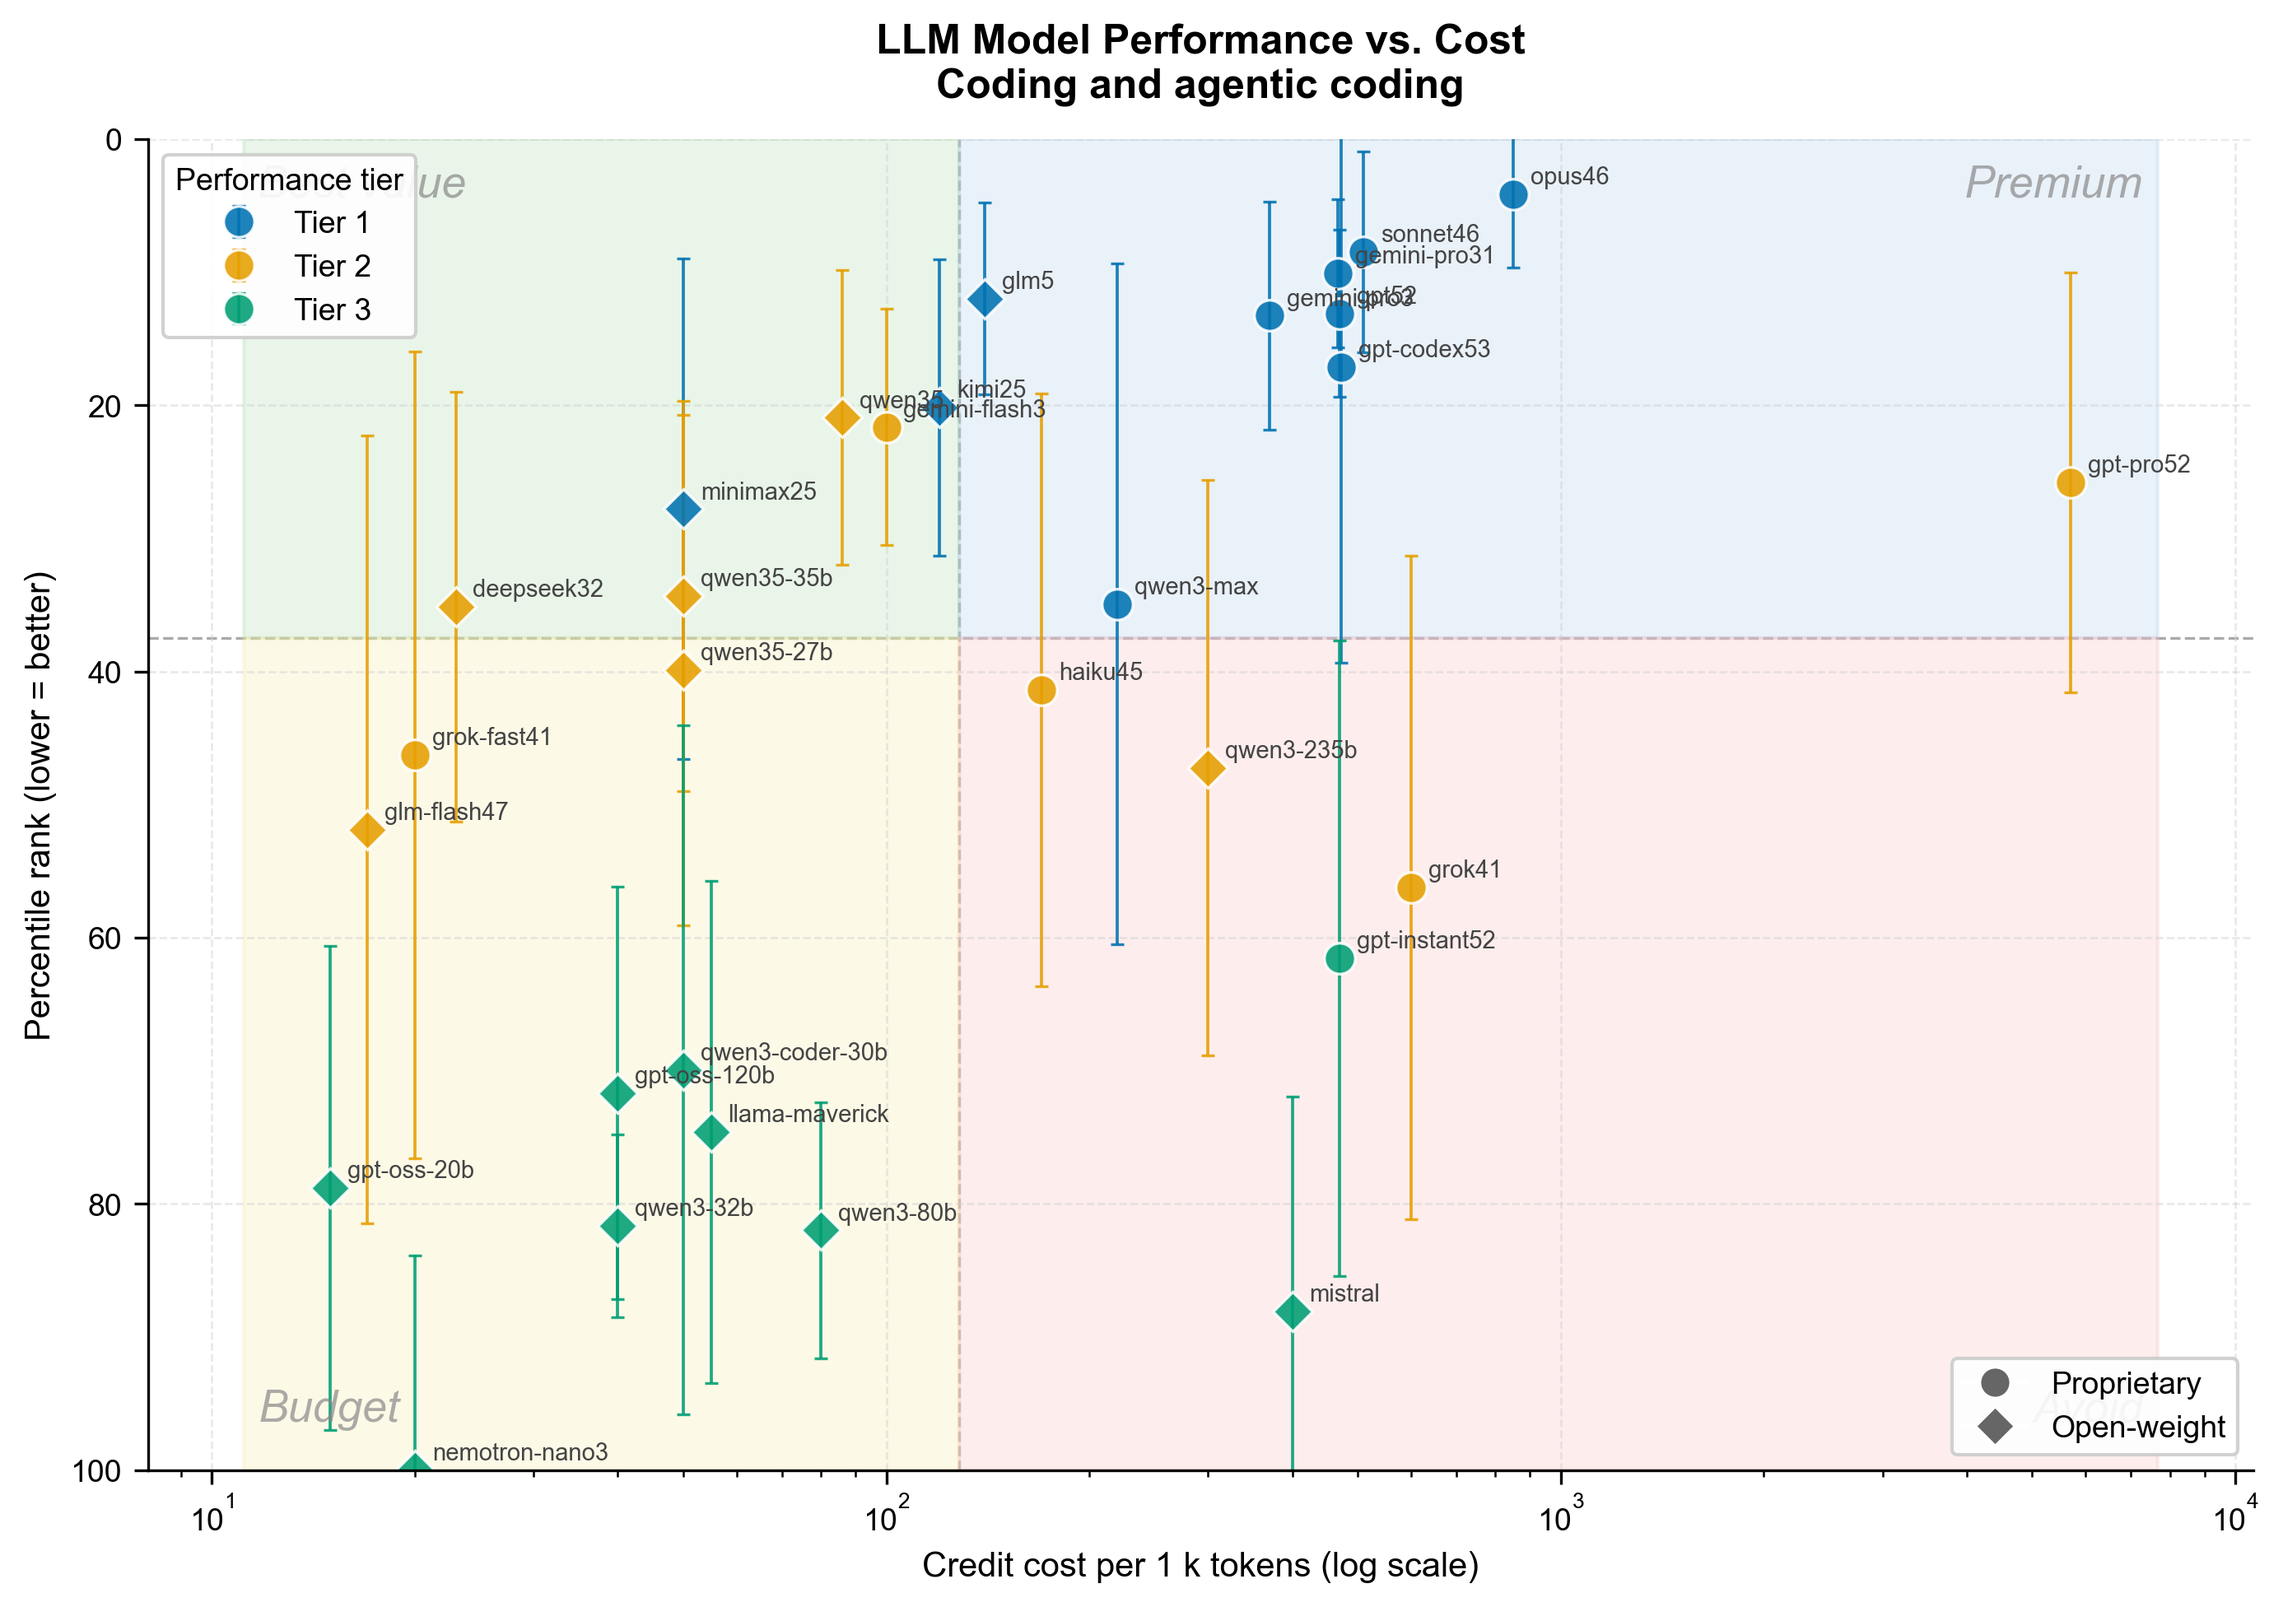
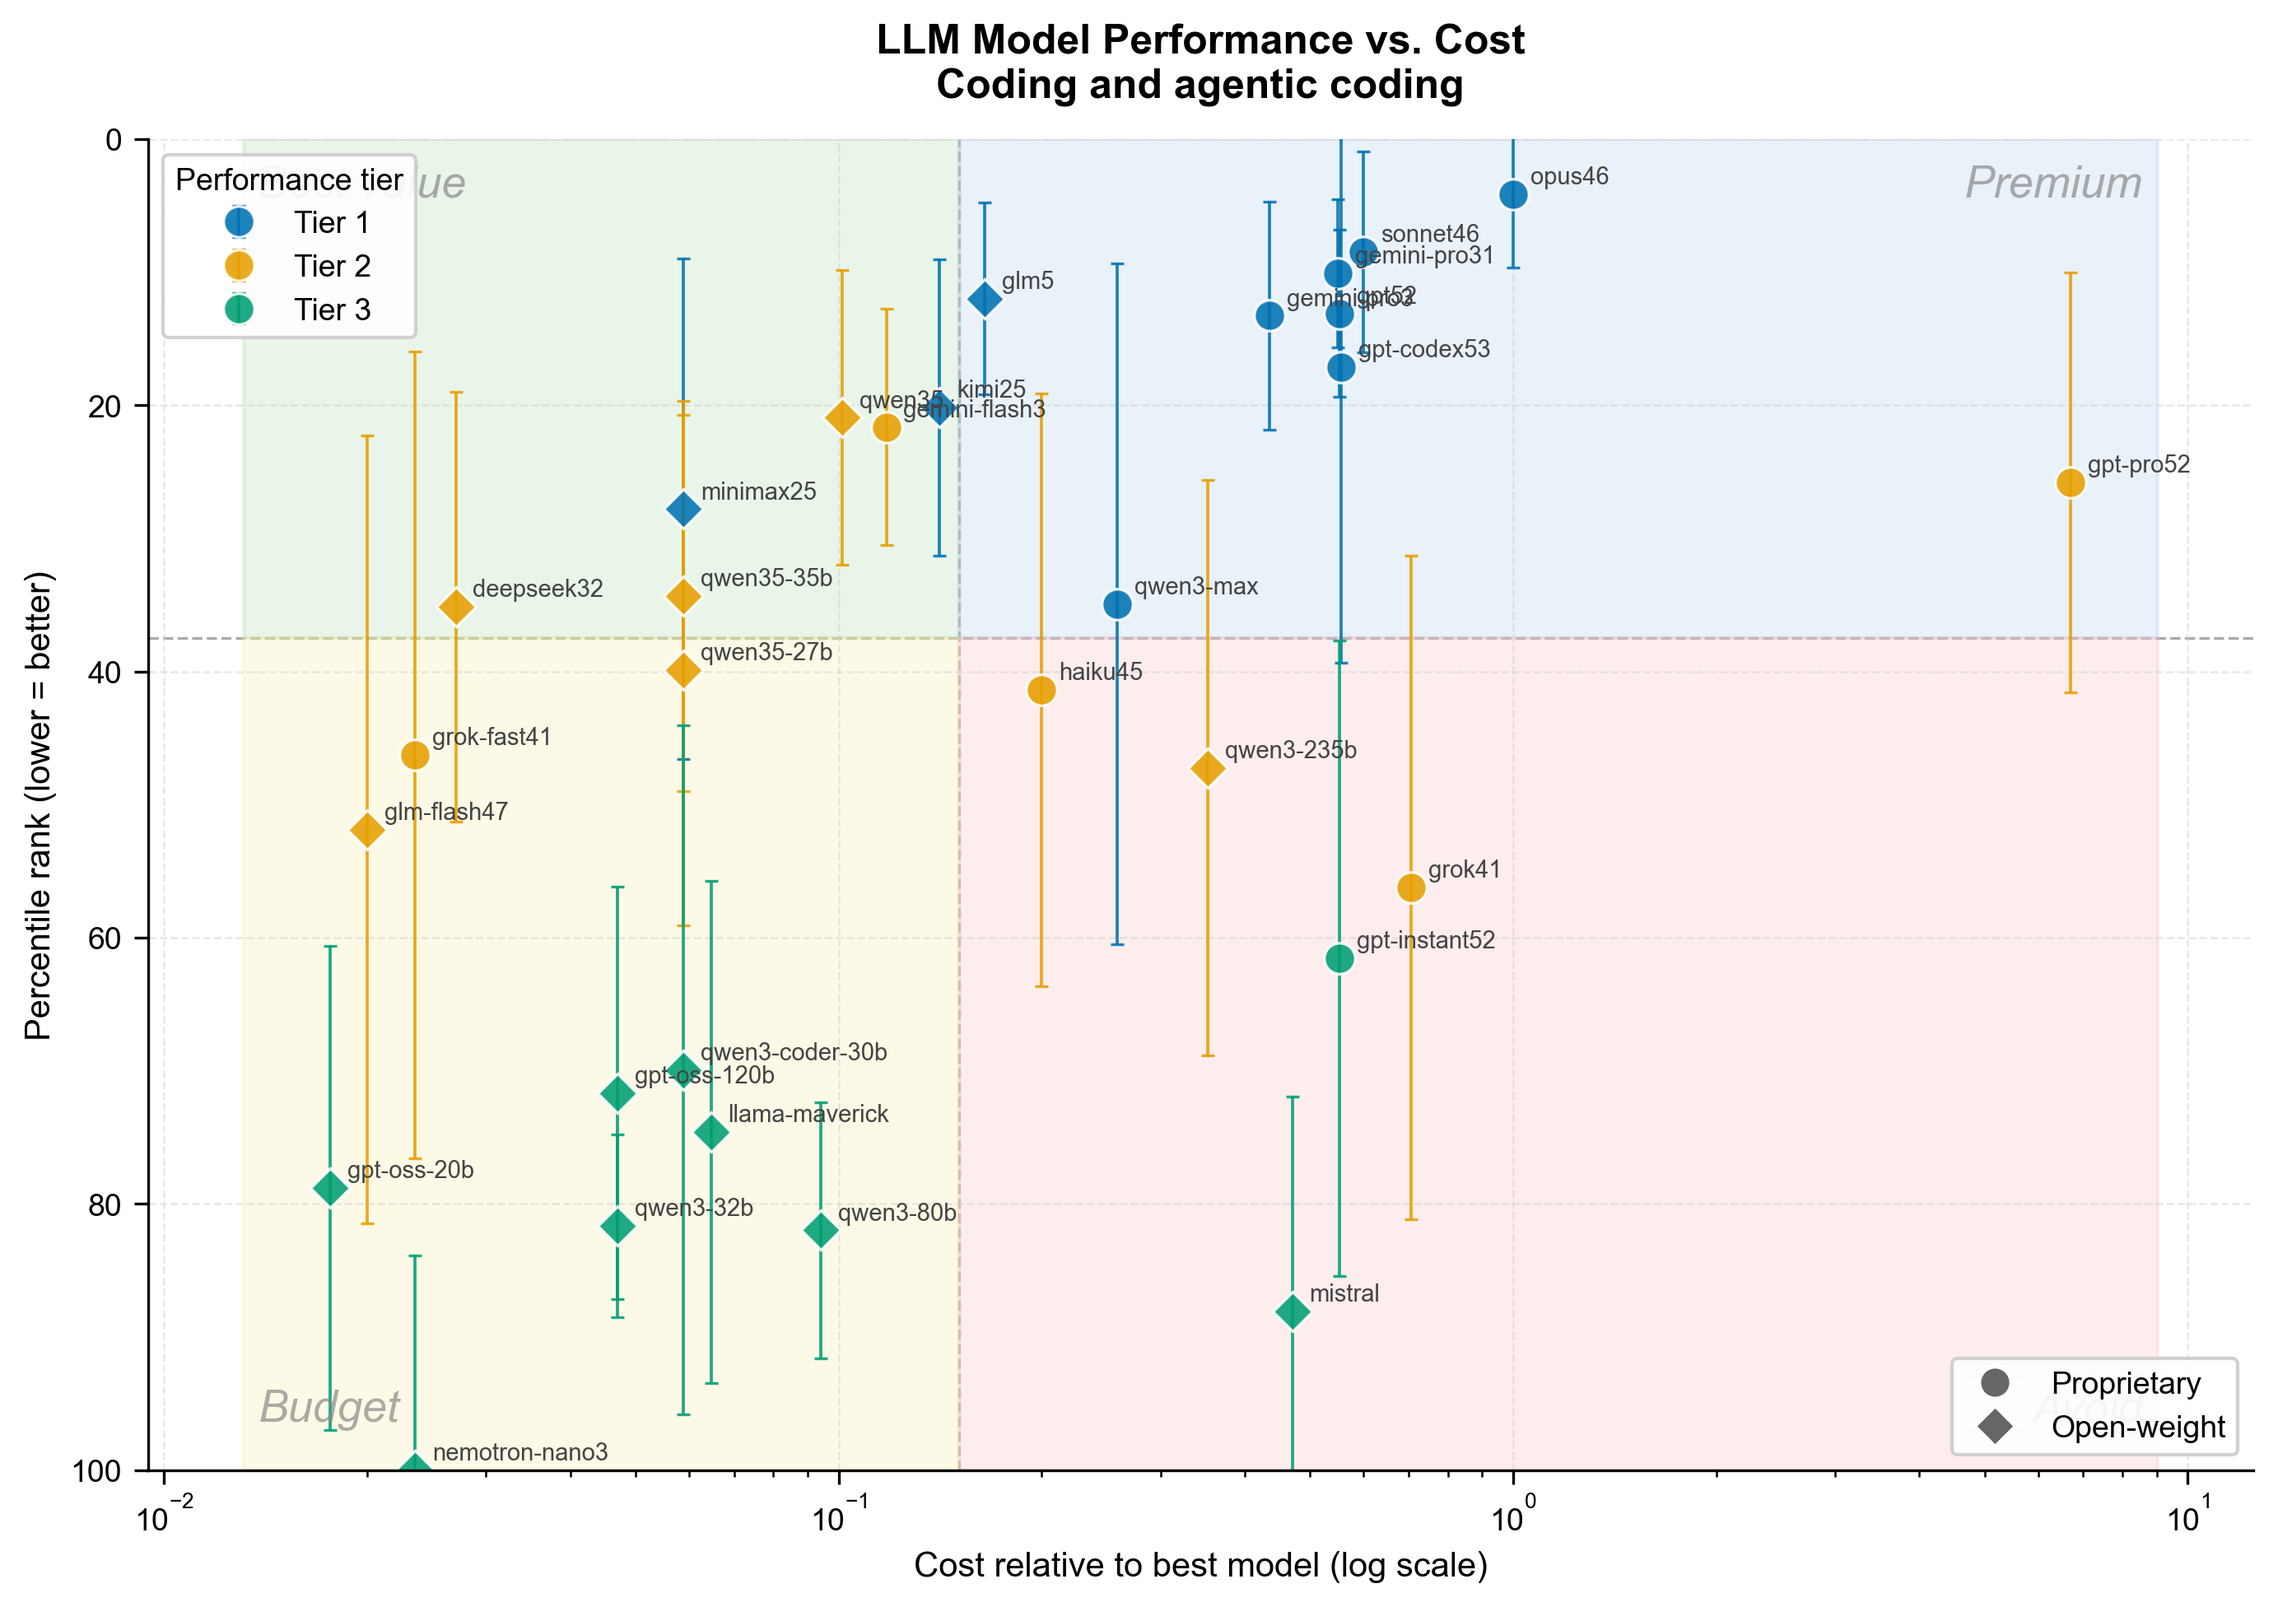
normalize cost axis to best model in plot and table
Cost x-axis in scatter plot and the Rel. Cost column in the stdout
table now show costs as multiples of the best-ranked model's cost
(best = 1.0), making it easy to read "model X costs N× the leader."

diff --git a/rank_models.py b/rank_models.py
@@ -306,6 +306,11 @@ def create_plot(
     df["Credit Cost (per 1k)"] = pd.to_numeric(df["Credit Cost (per 1k)"], errors="coerce")
     plot_df = df.dropna(subset=["Credit Cost (per 1k)"])
 
+    # Normalize cost so best-ranked model (lowest avg score) = 1.0
+    best_cost = float(plot_df.loc[plot_df["Average Score"].idxmin(), "Credit Cost (per 1k)"])
+    plot_df = plot_df.copy()  # avoid pandas SettingWithCopyWarning
+    plot_df["Credit Cost (per 1k)"] = plot_df["Credit Cost (per 1k)"] / best_cost
+
     with matplotlib.rc_context(_NATURE_RC):
         fig, ax = plt.subplots(figsize=(11, 7))
 
@@ -376,7 +381,7 @@ def create_plot(
         base_title = "LLM Model Performance vs. Cost"
         ax.set_title(f"{base_title}\n{category}" if category else base_title, pad=12)
         ax.set_ylabel("Percentile rank (lower = better)")
-        ax.set_xlabel("Credit cost per 1 k tokens (log scale)")
+        ax.set_xlabel("Cost relative to best model (log scale)")
         ax.grid(True, linestyle="--", linewidth=0.6, alpha=0.5)
 
         leg1 = ax.legend(loc="best", title="Performance tier")
@@ -702,8 +707,12 @@ def main():
 
     results.sort(key=lambda r: r[1])  # ascending = best first
 
+    # ── Normalize costs relative to best-ranked model with cost data ─────
+    costs_with_values = [r[4] for r in results if r[4] is not None]
+    best_cost_table = costs_with_values[0] if costs_with_values else None
+
     # ── Pretty-print ASCII table ─────────────────────────────────────────
-    col = {"rank": 6, "model": 24, "avg": 10, "sd": 10, "nb": 14, "cost": 9}
+    col = {"rank": 6, "model": 24, "avg": 10, "sd": 10, "nb": 14, "cost": 10}
 
     def row(*cells):
         return (
@@ -719,13 +728,16 @@ def main():
     sep = "+" + "-" * (width - 2) + "+"
 
     print(sep)
-    print(row("Rank", "Model", "Avg Pctl", "Std Dev", "# Benchmarks", "Cost/1k"))
+    print(row("Rank", "Model", "Avg Pctl", "Std Dev", "# Benchmarks", "Rel. Cost"))
     print(sep)
 
     for idx, (model, avg, sd, n, cost) in enumerate(results, 1):
         avg_s = f"{avg:.3f}"
         sd_s = f"{sd:.3f}" if sd is not None else "N/A"
-        cost_s = str(cost) if cost is not None else "N/A"
+        if cost is not None and best_cost_table is not None:
+            cost_s = f"{cost / best_cost_table:.3f}"
+        else:
+            cost_s = "N/A"
         print(row(str(idx), model, avg_s, sd_s, str(n), cost_s))
 
     print(sep)
